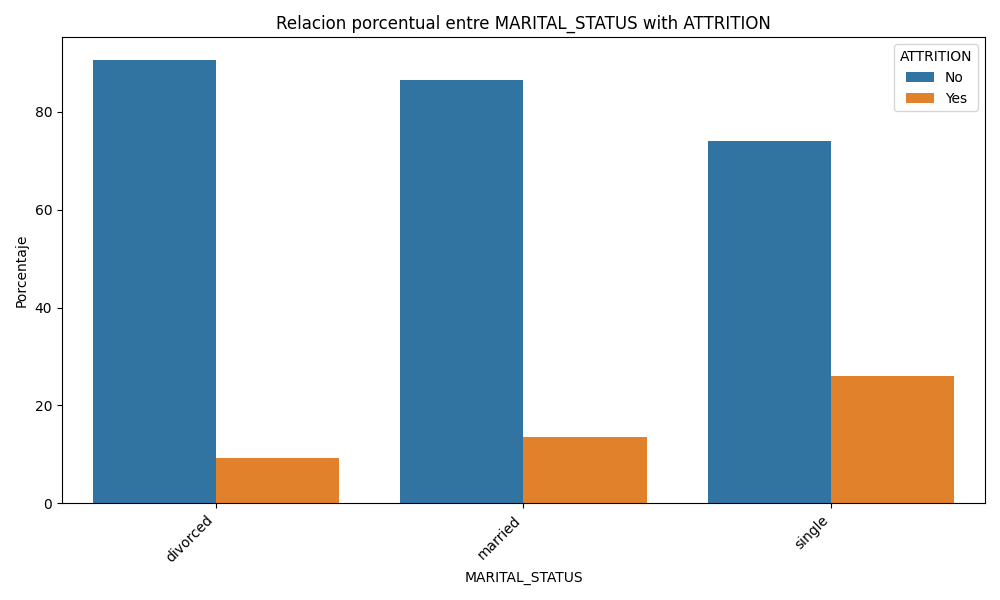
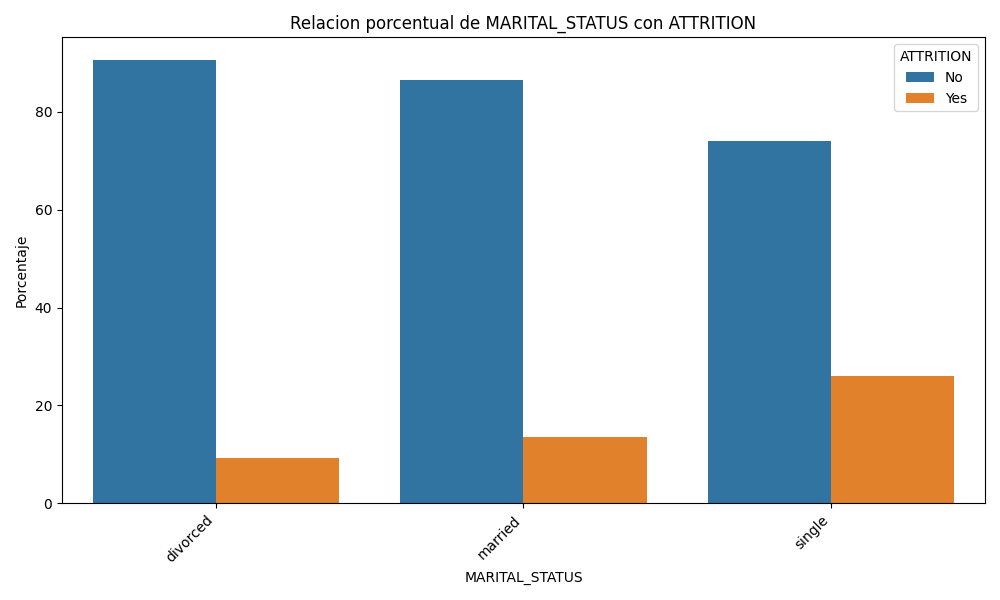
imagenes corregidas

Changed region(s): [[0.279, 0.03, 0.775, 0.06]]

diff --git a/empleados_package/sql.py b/empleados_package/sql.py
@@ -1,8 +1,28 @@
 from sqlalchemy import create_engine, text
 
-def conexion_sql(password, db_name):
+def conexion_sql(usuario="root", password, db_name):
 
-    url = f"mysql+pymysql://root:{password}@localhost/{db_name}"
+    """
+    Establece una conexión a una base de datos MySQL utilizando SQLAlchemy.
+
+    Parámetros:
+    - usuario (str): Nombre de usuario para la conexión a MySQL. Por defecto, se usa "root".
+    - password (str): Contraseña para la conexión a MySQL.
+    - db_name (str): Nombre de la base de datos a la que se desea conectar.
+
+    Retorna:
+    - connection: Objeto de conexión a la base de datos.
+
+    Comentarios:
+    - Esta función utiliza la biblioteca SQLAlchemy para establecer una conexión
+      a una base de datos MySQL. La URL de conexión se construye utilizando el
+      nombre de usuario proporcionado (por defecto "root"), la contraseña y el
+      nombre de la base de datos especificado. Se recomienda cerrar la conexión
+      utilizando el método close() del objeto de conexión después de realizar las
+      operaciones necesarias en la base de datos.
+    """
+
+    url = f"mysql+pymysql://{usuario}:{password}@localhost/{db_name}"
     engine = create_engine(url)
     connection = engine.connect()
 

diff --git a/empleados_package/visualizacion.py b/empleados_package/visualizacion.py
@@ -178,7 +178,7 @@ def histo_porcentual(dataframe, columna_A, columna_B, nombre_fichero="histo_porc
     plot = sns.barplot(x=columna_A, y='Porcentaje', hue=columna_B, data=datos_porcentuales)
     plot.set_xticklabels(plot.get_xticklabels(), rotation=45, horizontalalignment='right')
 
-    plt.title(f'Relacion porcentual entre {columna_A} with {columna_B}')
+    plt.title(f'Relacion porcentual de {columna_A} con {columna_B}')
     plt.xlabel(columna_A)
     plt.ylabel('Porcentaje')
     plt.legend(title=columna_B)
